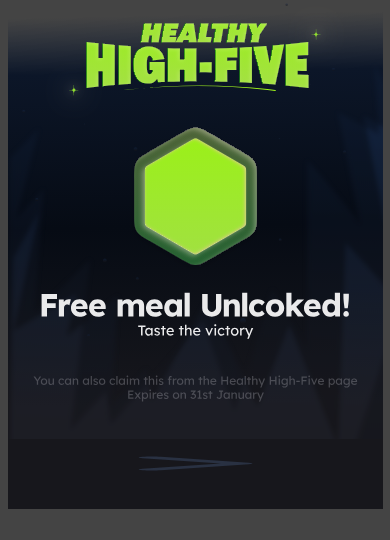
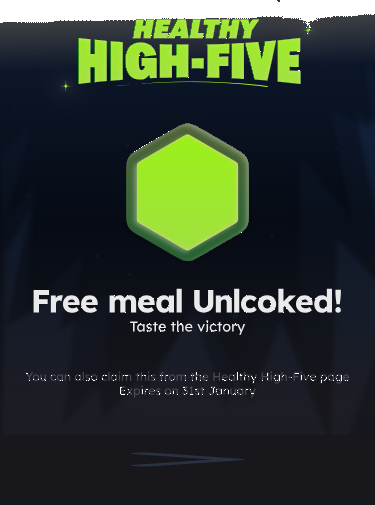
refactor(modal): vertical scroll for H5 explorations, transparent canvas
Switches the Healthy High-Five exploration strip from horizontal snap
scroll to a vertical stack and crops each iteration tight to its design.
Replaces SVG canvas grey with transparent so each piece floats cleanly
on the modal's dark surface — no grey or black borders.

diff --git a/app/components/ProjectModal.tsx b/app/components/ProjectModal.tsx
@@ -312,30 +312,17 @@ function ExplorationStrip({ items }: { items: ProjectExploration[] }) {
       <p className="mt-1 text-[12px] text-[var(--ink-soft)]">
         Where it started → where it landed.
       </p>
-      <div
-        className="mt-4 -mx-5 flex snap-x snap-mandatory gap-3 overflow-x-auto px-5 pb-3 sm:-mx-6 sm:px-6 [scrollbar-width:thin]"
-      >
+      <div className="mt-5 flex flex-col gap-7">
         {items.map((item, i) => (
-          <figure
-            key={i}
-            className="flex w-[180px] shrink-0 snap-start flex-col gap-2"
-          >
-            <div
-              className="flex h-[200px] w-full items-center justify-center overflow-hidden rounded-xl"
-              style={{
-                background: "var(--surface)",
-                border: "1px solid var(--line)",
-              }}
-            >
-              <img
-                src={item.src}
-                alt={item.caption}
-                loading="lazy"
-                decoding="async"
-                className="max-h-full max-w-full object-contain"
-              />
-            </div>
-            <figcaption className="text-[11px] leading-snug text-[var(--ink-soft)]">
+          <figure key={i} className="flex flex-col items-center gap-2.5">
+            <img
+              src={item.src}
+              alt={item.caption}
+              loading="lazy"
+              decoding="async"
+              className="block max-h-[360px] w-auto max-w-full rounded-lg"
+            />
+            <figcaption className="self-stretch text-center text-[12px] leading-snug text-[var(--ink-soft)]">
               <span className="mr-1.5 font-mono text-[var(--ink-faint)]">
                 {String(i + 1).padStart(2, "0")}
               </span>
